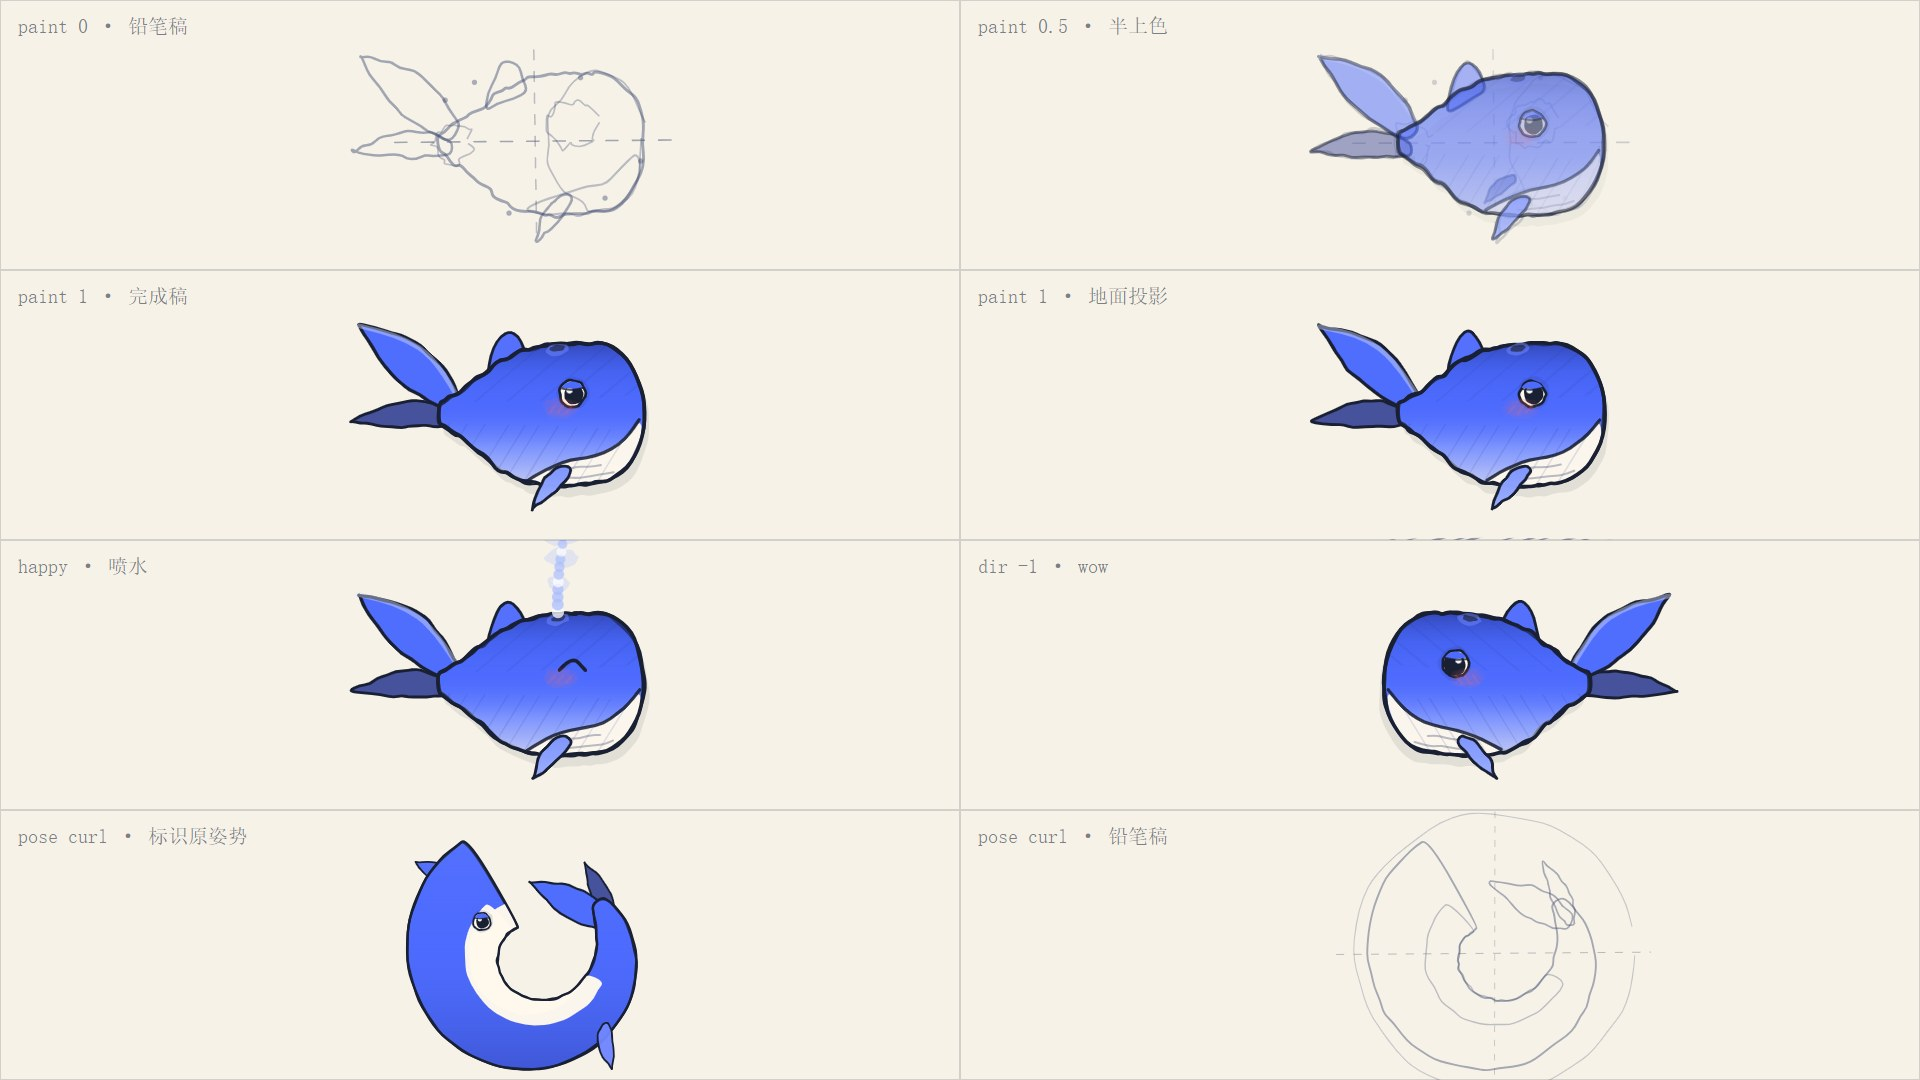
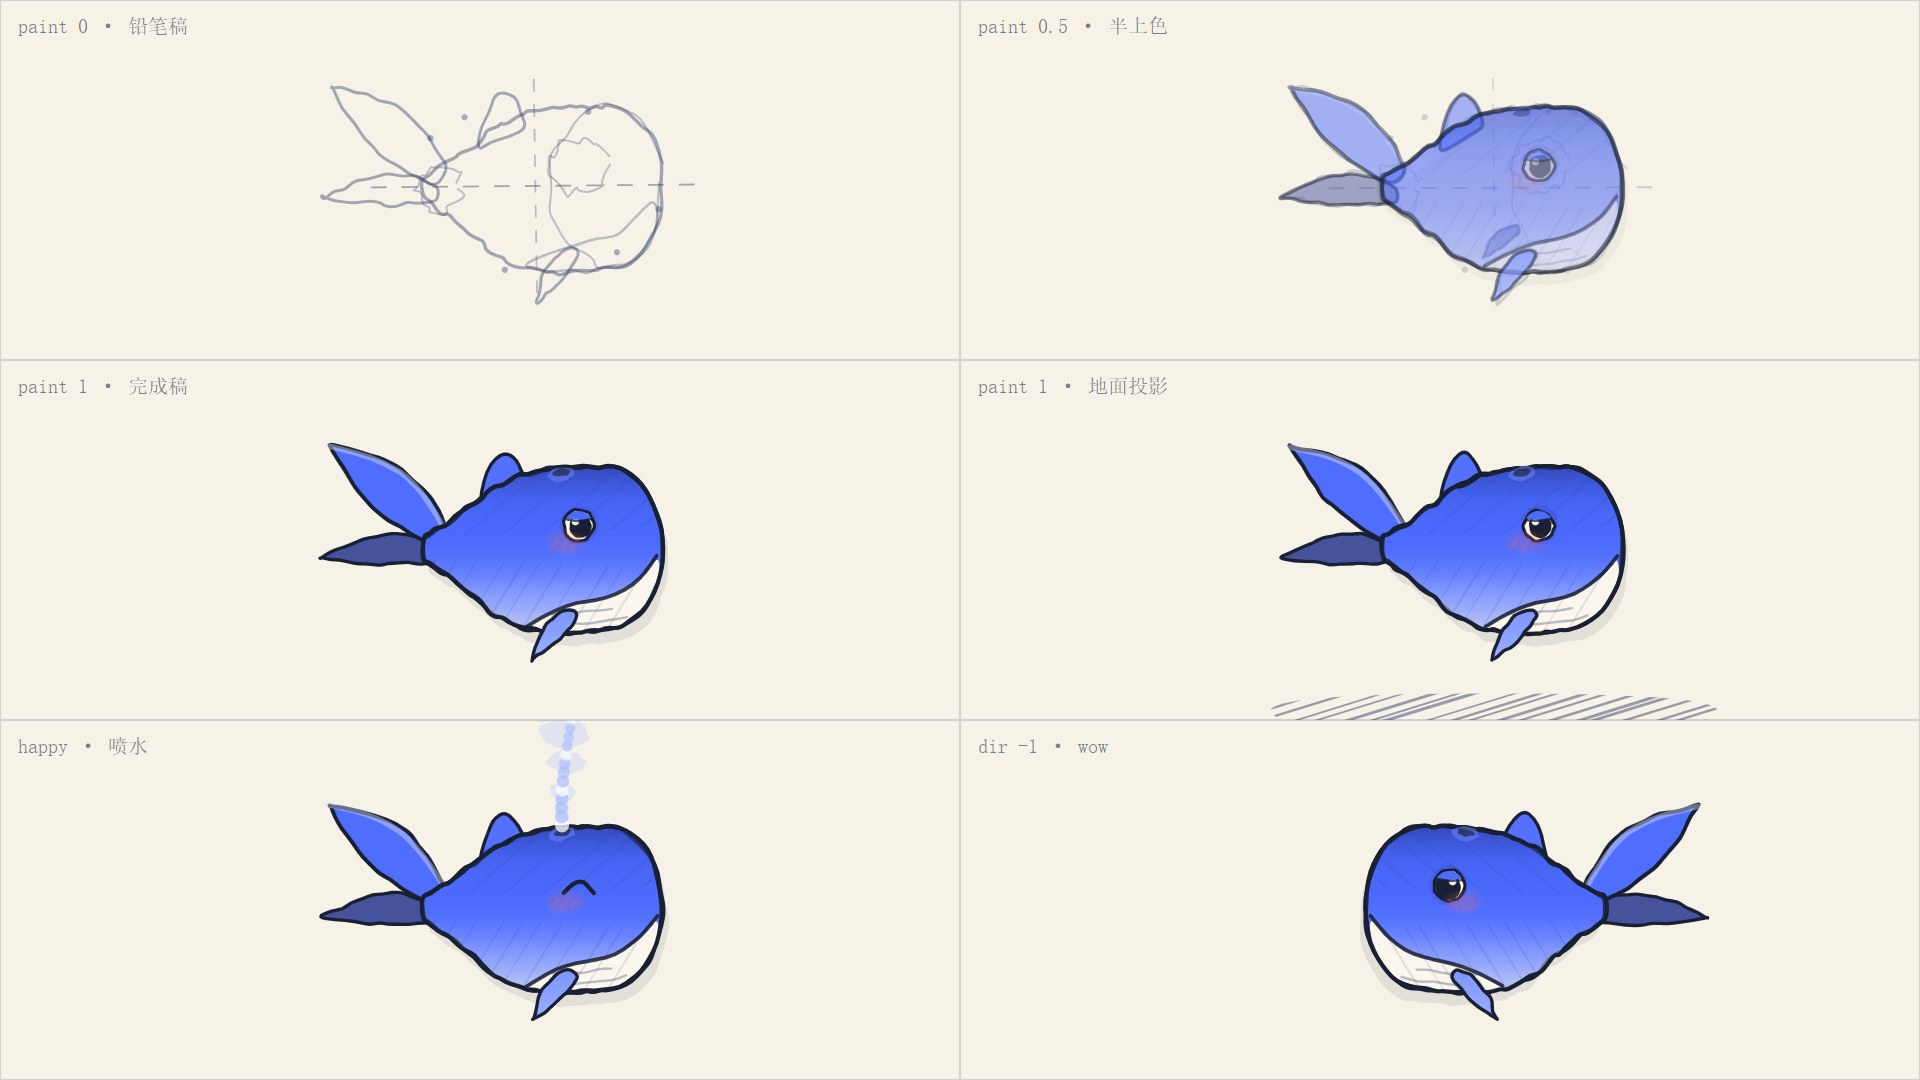
Drop the curl pose; add a video cover cropped from the film
The curl pose did not earn its place, so it is gone: the drawCurl branch, its
curlSpine/curlBodyPts/curlJawPts/curlFluke/curlDorsalPts/curlFlipperPts helpers,
the pose option, the two extra rig cells and the docs paragraph. char.js is back
to one drawing path, and the rig is back to 3x2. The film itself is untouched -
the branch was opt-in, so the existing 60.6s render is still valid.

Cover: docs/cover.jpg is frame 29.2s pulled straight out of out/video.mp4 - the
whale in front of the Earth with the caption 'jia zhi shi yi ke qiu' (home is
just a ball). It was picked for being the most iconic frame and the one that
still reads when the thumbnail is 320px wide; the whale is small but high
contrast against the planet, and the line doubles as a tagline.
docs/cover-alt.jpg is the runner-up at 25.1s (the giant sunflower), which is the
warmer and more graphic of the two if the cover needs to shout instead.

README: the cover now opens the file and the 4-panel hero moved down next to the
intro, with the docs tree listing both covers.

diff --git a/js/char.js b/js/char.js
@@ -164,97 +164,10 @@
     C.restore();
   }
 
-  // ======================= 蜷成一团（标识的原姿势）=======================
-  // 侧视那只用来游，这只用来当标题/封面：脊椎是一条圆弧，头厚尾细，白月牙贴内缘。
-  const CS = 132;                                   // 蜷姿的整体尺度
-  const CURL_A0 = Math.PI * 4 / 3, CURL_A1 = -Math.PI * 0.22;   // 240° → −40°（开口朝上）
-  const CURL_TA = -2.263;                           // 尾端切线方向
-  function curlSpine(u) {
-    const a = lerp(CURL_A0, CURL_A1, u), r = 0.78;
-    const h = 0.44 * Math.pow(1 - u, 0.60) + 0.055;  // 半厚：头厚尾细
-    return [Math.cos(a) * r, Math.sin(a) * r, a, h];
-  }
-  function curlBodyPts() {
-    const N = 44, up = [], lo = [];
-    for (let i = 0; i <= N; i++) {
-      const s = curlSpine(i / N), nx = Math.cos(s[2]), ny = Math.sin(s[2]);
-      up.push([(s[0] + nx * s[3]) * CS, (s[1] + ny * s[3]) * CS]);
-      lo.push([(s[0] - nx * s[3]) * CS, (s[1] - ny * s[3]) * CS]);
-    }
-    return up.concat(lo.reverse());
-  }
-  function curlMouthPts() {                          // 白月牙上缘（贴内缘）
-    const N = 26, q = [];
-    for (let i = 0; i <= N; i++) {
-      const s = curlSpine(lerp(0.04, 0.78, i / N)), nx = Math.cos(s[2]), ny = Math.sin(s[2]);
-      q.push([(s[0] - nx * s[3] * 1.02) * CS, (s[1] - ny * s[3] * 1.02) * CS]);
-    }
-    return q;
-  }
-  function curlJawPts() {                            // 白月牙 = 上缘（内缘）+ 往洞内收的另一条弧
-    const N = 26, a2 = [];
-    for (let i = 0; i <= N; i++) {
-      const s = curlSpine(lerp(0.04, 0.78, i / N)), nx = Math.cos(s[2]), ny = Math.sin(s[2]);
-      a2.push([(s[0] - nx * s[3] * 0.26) * CS, (s[1] - ny * s[3] * 0.26) * CS]);
-    }
-    return curlMouthPts().concat(a2.reverse());
-  }
-  function curlFluke(up) {
-    const s = curlSpine(0.93);
-    return lobePts(s[0] * CS, s[1] * CS, CURL_TA + (up ? -0.44 : 0.34),
-      up ? 116 : 86, up ? 25 : 15, up ? 0.05 : -0.05, 12);
-  }
-  function curlDorsalPts() {
-    const s = curlSpine(0.07), nx = Math.cos(s[2]), ny = Math.sin(s[2]);
-    return lobePts((s[0] + nx * s[3] * 0.70) * CS, (s[1] + ny * s[3] * 0.70) * CS, s[2] - 0.34, 42, 13, 0.10, 8);
-  }
-  function curlFlipperPts() {
-    const s = curlSpine(0.70), nx = Math.cos(s[2]), ny = Math.sin(s[2]);
-    return lobePts((s[0] + nx * s[3] * 0.66) * CS, (s[1] + ny * s[3] * 0.66) * CS, s[2] + 0.78, 58, 12, -0.12, 9);
-  }
-  const CURL_EYE = [-0.50 * CS, -0.30 * CS];
-
-  function drawCurl(t, mood, o, paint, sketch, baseA) {
-    const C = G.getCtx();
-    const bp = curlBodyPts(), jw = curlJawPts();
-    const fUp = curlFluke(true), fDn = curlFluke(false);
-    if (sketch > 0.02) {
-      const sa = 110 * sketch;
-      G.stroke(G.ellPts(0, 0, 1.34 * CS, 1.34 * CS, 32, 3), { ink: P.ink2, sw: 1.4, alpha: sa * 0.6, jitter: 3, smooth: 1 });
-      G.stroke([[-1.5 * CS, 0], [1.5 * CS, 0]], { ink: P.ink2, sw: 1.2, alpha: sa * 0.8, jitter: 3, dash: [10, 12], smooth: 0 });
-      G.stroke([[0, -1.5 * CS], [0, 1.5 * CS]], { ink: P.ink2, sw: 1.2, alpha: sa * 0.6, jitter: 3, dash: [8, 10], smooth: 0 });
-      G.paint(bp, { ink: P.ink2, sw: 2.4, jitter: 2.4, inkOp: sa });
-      G.paint(jw, { ink: P.ink2, sw: 1.8, jitter: 2.4, inkOp: sa * 0.7 });
-      G.paint(fUp, { ink: P.ink2, sw: 2.1, jitter: 2.4, inkOp: sa });
-      G.paint(fDn, { ink: P.ink2, sw: 2.1, jitter: 2.4, inkOp: sa });
-    }
-    C.globalAlpha = baseA * paint;
-    G.paint(fDn, { fill: P.dsDk, fillOp: 215, ink: P.ink, sw: 2.4, jitter: 1.3 });
-    G.paint(fUp, { fill: P.ds, fillOp: 250, ink: P.ink, sw: 2.8, jitter: 1.3 });
-    G.paint(curlDorsalPts(), { fill: P.ds, fillOp: 245, ink: P.ink, sw: 2.3, jitter: 1.1 });
-    G.paint(bp, { fill: P.ds, ink: P.ink, sw: 3.0, jitter: 1.2 });
-    C.save();
-    G.tracePts(bp, 1, true);
-    C.clip();
-    const g = C.createLinearGradient(0, -1.3 * CS, 0, 1.3 * CS);
-    g.addColorStop(0.00, 'rgba(110,134,255,0.30)');
-    g.addColorStop(0.45, 'rgba(77,107,254,0.06)');
-    g.addColorStop(1.00, 'rgba(38,52,143,0.46)');
-    C.fillStyle = g; C.fillRect(-1.7 * CS, -1.7 * CS, 3.4 * CS, 3.4 * CS);
-    // 洞口填白 —— 标识里那块白月牙其实就是这个洞
-    G.paint(G.ellPts(-0.05 * CS, 0.03 * CS, 0.58 * CS, 0.56 * CS, 34, 1.3), { fill: P.cream, fillOp: 248 });
-    G.paint(jw, { fill: P.cream, fillOp: 248, jitter: 1.0 });
-    G.stroke(curlMouthPts(), { ink: P.ink, sw: 2.5, alpha: 210, jitter: .8, smooth: 1 });
-    C.restore();
-    G.paint(bp, { ink: P.ink, sw: 3.0, jitter: 1.2 });
-    eye(t, CURL_EYE[0], CURL_EYE[1], o.eyeR == null ? 11 : o.eyeR, mood, o.blink || 0);
-    G.paint(curlFlipperPts(), { fill: P.dsMid, fillOp: 245, ink: P.ink, sw: 2.4, jitter: 1.2 });
-  }
-
   // ======================= 主入口 =======================
   // whale(t, x, y, 尺寸, 选项)
   // o: dir(+1右/-1左) tilt mood squash stretch alpha aura spout blink eyeR
-  //    tailSpeed tailL tailS wave paint sketch ground blush emote emoteO pose('curl')
+  //    tailSpeed tailL tailS wave paint sketch ground blush emote emoteO
   G.whale = function (t, x, y, s, o) {
     const C = G.getCtx(); if (!C) return;
     o = o || {};
@@ -282,14 +195,6 @@
       g.addColorStop(0, 'rgba(141,166,255,' + (0.5 * o.aura) + ')');
       g.addColorStop(1, 'rgba(141,166,255,0)');
       C.save(); C.fillStyle = g; C.beginPath(); C.arc(0, 0, 210, 0, G.TAU); C.fill(); C.restore();
-    }
-
-    // 蜷成一团（标识的原姿势）：静态场合用，片子里不用
-    if (o.pose === 'curl') {
-      drawCurl(t, mood, o, paint, sketch, baseA);
-      C.restore();
-      if (o.emote) G.emote(o.emote, x + dir * 150 * s, y - 150 * s, s, t, o.emoteO);
-      return;
     }
 
     // ---- 铅笔起稿辅助线 ----

diff --git a/js/main.js b/js/main.js
@@ -279,7 +279,7 @@
   // 3 行 × 2 列：上色阶段（铅笔稿 / 半上色 / 完成稿）× 表情姿势。
   // 同一个 drawRig 同时供页面调试模式（?rig=1）与 render.mjs --rig 使用，
   // 改完 char.js 直接出图对照，不用反复手动截图。
-  const RIG_SCALE = 1.20, RIG_DX = 54, RIG_DY = 8;
+  const RIG_SCALE = 1.40, RIG_DX = 54, RIG_DY = 8;
   const RIG = [
     { label: 'paint 0 · 铅笔稿',           o: { sketch: 1, paint: 0 } },
     { label: 'paint 0.5 · 半上色',         o: { sketch: 0.5, paint: 0.5 } },
@@ -287,11 +287,9 @@
     { label: 'paint 1 · 地面投影',         o: { paint: 1, ground: 1 } },
     { label: 'happy · 喷水',               o: { paint: 1, mood: 'happy', spout: 1 } },
     { label: 'dir -1 · wow',               o: { paint: 1, dir: -1, mood: 'wow' } },
-    { label: 'pose curl · 标识原姿势',     o: { paint: 1, pose: 'curl' }, s: 0.66 },
-    { label: 'pose curl · 铅笔稿',         o: { paint: 0, sketch: 1, pose: 'curl' }, s: 0.66 },
   ];
   function drawRig(x, t) {
-    const cellW = W / 2, cellH = H / 4;
+    const cellW = W / 2, cellH = H / 3;
     x.save();
     x.fillStyle = G.PAL.paper; x.fillRect(0, 0, W, H);
     x.textAlign = 'left'; x.textBaseline = 'top';
@@ -302,7 +300,7 @@
       x.beginPath(); x.rect(ox, oy, cellW, cellH); x.clip();
       x.translate(ox + cellW / 2, oy + cellH / 2);
       G.setCtx(x);
-      G.whale(t, RIG_DX, RIG_DY, RIG_SCALE * (RIG[i].s || 1), RIG[i].o);
+      G.whale(t, RIG_DX, RIG_DY, RIG_SCALE, RIG[i].o);
       x.restore();
       x.strokeStyle = 'rgba(26,32,51,.16)'; x.lineWidth = 1;
       x.strokeRect(ox + .5, oy + .5, cellW - 1, cellH - 1);

diff --git a/README.md b/README.md
@@ -1,4 +1,4 @@
-![hero](docs/hero.jpg)
+![cover](docs/cover.jpg)
 
 # Whale Animation Base
 ### 小鲸鱼 · 一直在游 —— *The Long Swim*
@@ -26,6 +26,8 @@
 剧情是一条探索线：**海里的家 → 破水面 → 一路所见（光 / 网 / 波 / 花）→ 离地 → 太阳系 →
 星系 → 时空 → 黑洞 → 隧道 → 地出 → 星图 → 回到海里**。
 首尾用同一套相机与配色收尾，所以片子**可以循环播放** —— 探索不结束。
+
+![hero](docs/hero.jpg)
 
 | 时间 | 幕 | 字幕 |
 |---|---|---|
@@ -101,10 +103,6 @@ pos(i, t) = form[形态A](i, t) × (1 − k) + form[形态B](i, t) × k
 改角色只动 `js/char.js`：形体常量在文件顶部（`CAPX / CAPRX / CAPRY / TAILX / TOP / BOT`、
 尾鳍张角），白月牙的嘴线是 `MOUTH`，五官坐标在 `G.whale` 里，
 尾叶与胸鳍共用 `lobePts()` —— 一个"沿脊椎线扫出宽叶"的生成器。
-
-**另一个姿势：`pose: 'curl'`。** 标识原本就是那个姿势 —— 鲸鱼蜷成一团。片子里用不上
-（它要游），但做标题 / 封面时那才是"一眼认出"的一版：脊椎是一条圆弧、头厚尾细，
-白月牙填在洞口的里侧。姿势表的最后两格就是它。
 
 **喷水只在"海里"的幕出现**（海洋 + 上浮）。太空里没有水可喷。
 闸门取的是当前形态权重 `WTS[F_SEA] + WTS[F_UPWELL]`，所以进出水是自动淡入淡出的，
@@ -226,7 +224,9 @@ WhaleAnimationBase/
 │   └── main.js           # 播放器逻辑 + 离线渲染接口
 ├── render.mjs            # 离线渲染器：无头 Chrome 逐帧 → ffmpeg 编码
 ├── analyze_bgm.mjs       # 配乐分析器：实测 BPM / 拍点 / 段落结构 / 选段推荐
-├── docs/                 # README 配图
+├── docs/                 # README 配图 / 视频封面
+│   ├── cover.jpg         # 视频封面（从成片截的第 29.2s 那一帧）
+│   ├── cover-alt.jpg     # 备用封面（第 25.1s · 向日葵）
 │   ├── hero.jpg
 │   ├── morph.jpg
 │   ├── sheet.jpg

diff --git a/ANIMATION_GUIDE.md b/ANIMATION_GUIDE.md
@@ -195,7 +195,6 @@ G.whale(t, x, y, 尺寸, {
   paint: 1,        // 0=纯铅笔稿  1=完成上色  中间值=正在被画出来
   sketch: 0,       // 起稿辅助线的强度（辅助椭圆+中心线+定位点）
   ground: 0,       // 地面排线投影
-  pose: null,      // 'curl' = 标识原姿势（蜷成一团）；只用于标题 / 封面这类静态场合
   dir: 1,          // +1 头朝右 / -1 头朝左（整体镜像）
   tilt: 0, mood: 'idle',   // idle|happy|sing|wow|dizzy|heart|sleep|wink
   squash: 1, stretch: 1, blink: 0,
